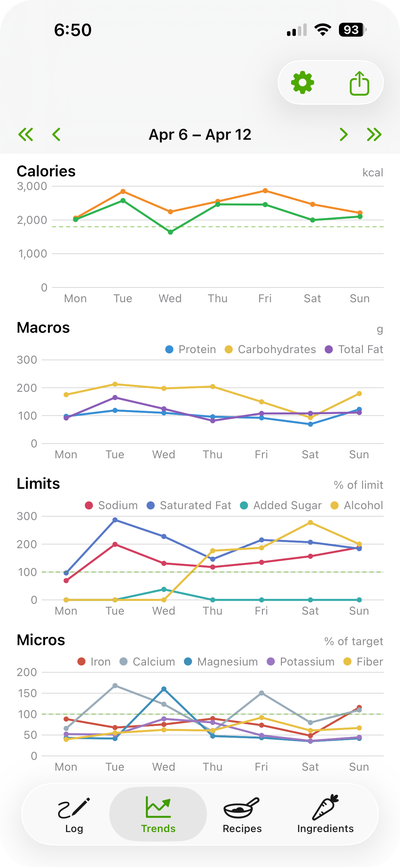
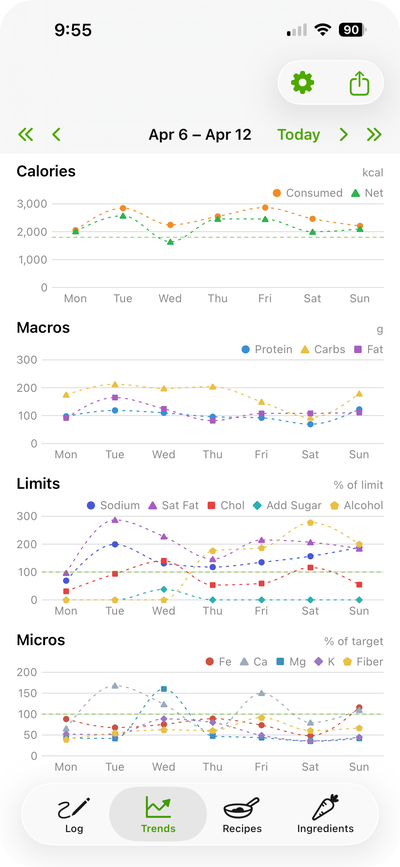
Deploy: refreshed README screenshots (rounded corners), copy pass, privacy Health-label fixes

diff --git a/README.md b/README.md
@@ -30,7 +30,7 @@ Your day. The top of the screen is a chart header showing macros, calories vs. t
 
 Swipe left or right anywhere on the day view to walk through previous days.
 
-**Tap any nutrient on the chart** — a ring, a bar, the calorie center, anything — to open a 7-day trend popup with a target line. Swipe inside the popup to walk back through earlier weeks.
+**Tap any nutrient on the chart** — a ring, a bar, the calorie ring, anything — to open a 7-day trend popup with a target line. Swipe inside the popup to walk back through earlier weeks.
 
 <p align="center">
   <img width="200" src="screenshots/calorie_detail.png" alt="Calorie trend popup">
@@ -41,9 +41,9 @@ Swipe left or right anywhere on the day view to walk through previous days.
 Line graphs across a rolling 7-day window: calories, macros, limits, and micronutrients. Tap any chart to expand it. Export daily totals as CSV with a configurable date range.
 
 <p align="center">
-  <img width="200" src="screenshots/trends_macros.png" alt="Trends — macros expanded">
-  &nbsp;
   <img width="200" src="screenshots/trends.png" alt="Trends — calories and limits">
+  &nbsp;
+  <img width="200" src="screenshots/trends_macros.png" alt="Trends — macros expanded">
 </p>
 
 ### Recipes
@@ -59,6 +59,10 @@ When you log a recipe as a meal, it captures a snapshot of the nutrition at that
 
 <p align="center">
   <img width="200" src="screenshots/recipe_view.png" alt="Recipe detail">
+  &nbsp;
+  <img width="200" src="screenshots/save_as_recipe.png" alt="Save as Recipe from a logged meal">
+  &nbsp;
+  <img width="200" src="screenshots/use_as_template.png" alt="Use a recipe as a meal template">
 </p>
 
 ### Ingredients
@@ -66,22 +70,22 @@ When you log a recipe as a meal, it captures a snapshot of the nutrition at that
 Your pantry. Scan a barcode, photograph a nutrition label, search USDA or Open Food Facts by name, or add one by hand - every ingredient lives here with its full nutrition breakdown. Scanned products arrive pre-filled, including the right category, so most of the time you just glance and save.
 
 <p align="center">
-  <img width="200" src="screenshots/ingredient.png" alt="New ingredient editor with category prefilled from a barcode scan">
-  &nbsp;
   <img width="200" src="screenshots/barcode_scanner.png" alt="Barcode scanner">
+  &nbsp;
+  <img width="200" src="screenshots/ingredient.png" alt="New ingredient editor with category prefilled from a barcode scan">
 </p>
 
 ---
 
 ## Reading the chart header
 
-The chart header packs a lot into a small space. Here's the cheat sheet:
+The chart header packs a lot into a small space.
 
-- **Big donut** on the left: macros (protein, carbs, fat). Tap a wedge for that nutrient's trend.
-- **Calorie ring** in the middle of the donut: how close you are to your calorie target. Past target it shifts toward red.
-- **Inner green ring** (only if you've enabled Apple Health active calories): how much you've burned, scaled against the same calorie target so the two are directly comparable.
-- **Limit bars** on the right (Sodium / Saturated Fat / Cholesterol / Added Sugar / Alcohol): horizontal bars that go from green to amber to red as you approach or exceed your daily limit. You only see the ones you've enabled in Settings.
-- **Micro rings** below (Iron / Calcium / Magnesium / Potassium / Fiber): small rings that fill toward your daily target. Each one can be toggled on or off independently in Settings.
+- **Macro ring graph**: protein, carbs, fat. Tap a wedge for that nutrient's trend.
+- **Calorie inner ring**: how close you are to your calorie target. Past target it shifts toward red.
+- **Active calorie inner ring** (only if you've enabled Apple Health active calories): how much you've burned, scaled against the same calorie target so the two are directly comparable.
+- **Limit bars** (Sodium / Saturated Fat / Cholesterol / Added Sugar / Alcohol): horizontal bars that go from green to amber to red as you approach or exceed your daily limit. You only see the ones you've enabled in Settings.
+- **Micro rings** (Iron / Calcium / Magnesium / Potassium / Fiber): small rings that fill toward your daily target. Each one can be toggled on or off independently in Settings.
 
 Tap anything to drill in.
 
@@ -98,18 +102,20 @@ Tap anything to drill in.
 **Settings → Display** has eight accent colors. The colors flow through every accent in the app - toggles, selection rings, and segmented controls will all have your personal hue.
 
 <p align="center">
-  <img width="200" src="screenshots/settings.png" alt="Settings">
+  <img width="200" src="screenshots/settings_nutrition.png" alt="Settings - Nutrition tab">
+  &nbsp;
+  <img width="200" src="screenshots/settings.png" alt="Settings - Display tab">
 </p>
 
 ---
 
 ## Apple Health
 
-Off by default. Two independent toggles in Settings → Apple Health:
+Off by default. Two independent toggles in Settings → Data → Apple Health:
 
 **Publish nutrients to Health.** When on, every meal you save also writes a nutrition entry to Apple Health, grouped under "DailyRation" as a meal correlation. Edits and deletes propagate. To stop sharing later, open the Health app → Sharing → Apps and Services → DailyRation.
 
-**Show active calories.** When on, the calorie display reads your active energy burned from Health and renders a green ring inside the orange calorie ring, scaled to the same target.
+**Show active calories.** When on, the calorie display reads your active energy burned from Health and renders a green active calorie ring inside the orange calorie ring, scaled to the same target.
 
 These are split because they're useful independently. You might want to publish nutrition to Health without trusting Apple's calorie burn estimate. Or you might want to see your burn against your intake without writing anything back to Health.
 
@@ -121,10 +127,12 @@ These are split because they're useful independently. You might want to publish 
 
 ## Works on Mac, too
 
-DailyRation runs natively on macOS 14+. Ingredients, recipes, and meal logs are the same data on both platforms — edit a recipe on your Mac, log it from your phone. The split-view layout turns the macOS app into a real kitchen reference: sort the sidebar by category, source, or name; see full nutrition on the right. Arrow-key navigation throughout.
+DailyRation runs natively on macOS 14+. Ingredients, recipes, and meal logs are the same data on both platforms — edit a recipe on your Mac, log it from your phone. Your whole day reads at a glance on a desktop screen, and the split-view layout turns Recipes and Ingredients into a real kitchen reference: sort the sidebar by category, source, or name; see full nutrition on the right. Arrow-key navigation throughout.
 
 <p align="center">
-  <img width="560" src="screenshots/macOS_ingredient.png" alt="macOS ingredient list sorted by category, split view">
+  <img width="300" src="screenshots/macOS_log.png" alt="macOS Log day view (light)">
+  &nbsp;
+  <img width="300" src="screenshots/macOS_recipe.png" alt="macOS recipe list with full nutrition, split view (dark)">
 </p>
 
 ---
@@ -153,7 +161,7 @@ There is no DailyRation server. Nothing is collected, sold, transmitted, profile
 
 ## Support
 
-Found a bug? Have a feature request? [Open an issue.](https://github.com/w15p/dailyration/issues)
+Found a bug? Have a feature request? [Open an issue.](https://github.com/w15p/DailyRation/issues)
 
 ---
 

diff --git a/privacy.md b/privacy.md
@@ -6,7 +6,7 @@ title: Privacy Policy
 
 DailyRation is a nutrition-tracking app for iOS and macOS built by w15p. It is designed to work without accounts, servers, or subscriptions. Your data stays yours.
 
-**Effective April 9, 2026. Last updated June 3, 2026.**
+**Effective April 9, 2026. Last updated June 5, 2026.**
 
 ---
 
@@ -54,10 +54,10 @@ No other network requests are made by the app.
 
 DailyRation offers optional Apple Health (HealthKit) integration, controlled by two independent toggles that are both **off by default**:
 
-- **Write nutrition data to Health** --- logs each meal's nutrition (calories, protein, etc.) to Apple Health.
-- **Read active energy burned** --- reads your active calorie expenditure from Apple Health to display alongside nutrition data.
+- **Publish nutrients to Health** --- logs each meal's nutrition (calories, protein, etc.) to Apple Health.
+- **Show active calories** --- reads your active energy burned from Apple Health to display alongside your calorie intake.
 
-Both features run entirely on-device through Apple's HealthKit framework. No health data is sent to any server. You can enable or disable either toggle at any time in the app's settings, and you can revoke Health access at the system level in Settings > Health > DailyRation.
+Both features run entirely on-device through Apple's HealthKit framework. No health data is sent to any server. You can enable or disable either toggle at any time in the app's settings, and you can revoke Health access at any time in the Health app under Sharing > Apps and Services > DailyRation.
 
 ## Nutrition Label Scanning
 
